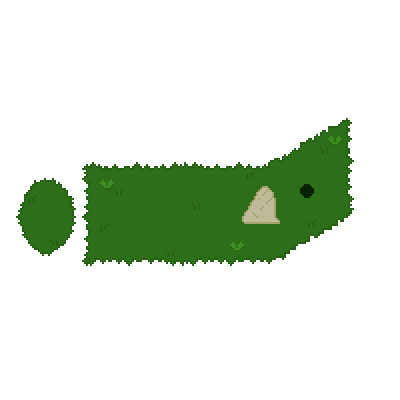
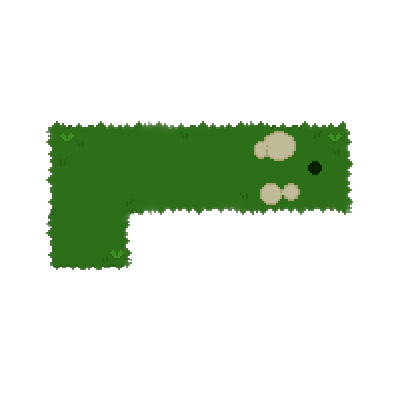
Next Hole faded MERGE

Changed region(s): [[0.03, 0.3, 0.9, 0.69]]

diff --git a/src/Hole/HolePage.tsx b/src/Hole/HolePage.tsx
@@ -1,3 +1,4 @@
+import { isDisabled } from '@testing-library/user-event/dist/utils'
 import React, { FC, useState } from 'react'
 import { useLocation } from 'react-router-dom'
 import LinkButton from '../LinkButton'
@@ -80,48 +81,54 @@ const HolePage:FC<IHolePageProps> = (props) => {
                         </tbody>
                     </table>
                 </div>
-                {getNextHoleButton()}
+                {getButtons()}
             </div>
         </div>
     ) 
 
-    function getStyle() {
-        //run to see all 0 scores
-        var containsZero = false
-        for(const player of playingTableArray[holeNumber]) {
-            if(player.Score === 0){
-                containsZero = true
-                break
+    function isNextHoleDisabled(){
+
+        let disabled = false;
+        playingTableArray[holeNumber].forEach((Player: IPlayer) => {
+            if(Player.Score == 0){
+                disabled = true
             }
-        }
-        // return containsZero;
-        return false; // Temp for testing
+        });
+        
+        return disabled
     }
 
-    function getNextHoleButton() {
+
+    //Generates the button templates for back and next hole w/ disabled opacity functionality
+    function generateButton(increment: number , text:String){
+
+        if(increment == -1)
+        {
+            return <button className='button' style={{fontFamily: 'ThaLeah', border: 'none'}} onClick={() => {setHoleNumber(holeNumber + increment)}}>{text}</button>
+        }
+        else{
+            return (<button className='button' style={{fontFamily: 'ThaLeah', border: 'none', opacity: (isNextHoleDisabled() ? "0.5" : 1)}} 
+                    disabled={isNextHoleDisabled()}
+                    onClick={() => {setHoleNumber(holeNumber + increment)}}>{text}</button>)
+        }
+        
+    }
+
+    //
+    function getButtons() {
             return(
                 <div  style={{display:"flex",width: '100%',justifyContent: 'space-between', flexDirection: "row-reverse"}}>
-                    {holeNumber + 1 < 9 ?
-                        <button 
-                            className='button' 
-                            style={{
-                                fontFamily: '\'ThaLeah\'',
-                                border: 'none',
-                                opacity: (getStyle() ? "0.5" : 1),
-                                width: "110px"
-                            }} 
-                            disabled={getStyle()}
-                            onClick={() => {setHoleNumber(holeNumber+1)}}
-                        >
-                            Next Hole
-                        </button>
+                    {holeNumber + 1 < 9?
+                         generateButton(1,'Next Hole')
                     :
-                    <LinkButton text='End Game...' redirect={'/EndGame'}  params={{state:{holeProps: {playingTable: playingTableArray, number: 0}, loggedIn: loggedIn}}}/>
-                    }
+                    isNextHoleDisabled() ?
+                          generateButton(1,'Next Hole')
+                    :
+                     <LinkButton  text='End Game...' redirect={'/EndGame'}  params={{state:{holeProps: {playingTable: playingTableArray, number: 0}}}}/>
+
+                }
                     {holeNumber > 0 && 
-                        <div className='button' onClick={()=>{setHoleNumber(holeNumber-1)}}>
-                            Back
-                        </div>
+                        generateButton(-1,'Back')
                     }
                 </div>
             )

diff --git a/src/Home/Home.tsx b/src/Home/Home.tsx
@@ -3,10 +3,122 @@ import "./Home.css"
 import HomeButtons from './HomeButtons'
 
 const Home:FC = () => {
+    var dummyLeaderboard: ILeaderboardObj = {
+        dateTime: '',
+        Players: []
+    }
+
+    var dummyPlayer: IPlayer = {
+        Name: ''
+    }
+
+    const [records, setRecords] = useState([]);
+    const [allPlayers, setAllPlayers] = useState([dummyPlayer]);
+    const [allLeaderboards, setAllLeaderboards] = useState([dummyLeaderboard]);
+    
+    
+    var URL ='http://'+ window.location.hostname+':5001'
+
+
+
+    useEffect(() => {
+        fetchDB()
+    }, [])
+
+    async function fetchDB() {
+        const response = await fetch(URL + `/leaderboard/`);
+ 
+        if (!response.ok) {
+        const message = `An error occurred: ${response.statusText}`;
+        window.alert(message);
+        return;
+        }
+    
+        const records = await response.json();
+        console.log(records)
+        setRecords(records);
+    }
+
+    async function addHandler() {
+        var newObj = {
+            Players: [
+                {Player_Id: "62e5e5a875351dce721836af", 
+                Score: "99"},
+                {Player_Id: "62e5022fa9bddf5b05fed3ea",
+                Score: "69"}
+            ]
+        }
+        await fetch(URL + "leaderboard/add", {
+            method: "POST",
+            headers: {
+                "Content-Type": "application/json",
+            },
+            body: JSON.stringify(newObj),
+            })
+            .catch(error => {
+            window.alert(error);
+            return;
+        });
+    }
+
+    async function getAllLeaderboards() {
+        const response = await fetch(URL + `/leaderboards/`);
+ 
+        if (!response.ok) {
+        const message = `An error occurred: ${response.statusText}`;
+        window.alert(message);
+        return;
+        }
+    
+        const leaderboards: ILeaderboardObj[] = await response.json();
+        console.log(leaderboards)
+        setAllLeaderboards(leaderboards);
+        console.log("allLeaderboards: ", allLeaderboards);
+    }
+
+    function returnAllLeaderboards(){
+        return allLeaderboards.map((leaderboard, index) => {
+                return (<div key={index}>
+                    {leaderboard.dateTime}
+                </div>);
+        });
+    }
+
+    async function addNewPlayer() {
+        var newObj = {
+            Name: "newNAME"
+        }
+        await fetch(URL + "/players/add", {
+            method: "POST",
+            headers: {
+                "Content-Type": "application/json",
+            },
+            body: JSON.stringify(newObj),
+            })
+            .catch(error => {
+            window.alert(error);
+            return;
+        });
+    }
+
+    async function getAllPlayers() {
+    
+        const response = await fetch(URL + `/players/`);
+ 
+        if (!response.ok) {
+        const message = `An error occurred: ${response.statusText}`;
+        window.alert(message);
+        return;
+        }
+    
+        const players: IPlayer[] = await response.json();
+        setAllPlayers(players);
+    }
+
     return (
         <div className='home-container' >
             <div className='home'>
-               <div><img className='logo' src={require('../Images/logo.png') } alt='logo'/></div> 
+               {/* <div><img className='logo' src={require('../Images/logo.png') }/></div>  */}
                 HYPNOS MOORE RIVER GOLF
                 <HomeButtons />
             </div>

diff --git a/src/Dashboard/Dash.tsx b/src/Dashboard/Dash.tsx
@@ -12,6 +12,8 @@ const Dash: FC = () => {
     const [showHistoryModal, setShowHistoryModal] = useState(false);
     const [latestGameSimple, setLatestGameSimple] = useState<ILatestLeaderboardSimpleObj>()
     const [latestGameDate, setLatestGameDate] = useState('')
+
+    var URL ='http://'+ window.location.hostname+':5001'
     
     useEffect(() => {
         getLatestLeaderboard();
@@ -27,7 +29,7 @@ const Dash: FC = () => {
     })()
 
     async function getLatestLeaderboard() {
-        const response = await fetch(`http://localhost:5001/leaderboard/`);
+        const response = await fetch(URL + `/leaderboard/`);
  
         if (!response.ok) {
             const message = `An error occurred: ${response.statusText}`;
@@ -53,7 +55,9 @@ const Dash: FC = () => {
         setLatestGameSimple(filteredLeaderboard)
     }
 
+    console.log(window.location.href)
     return (
+        
         <div className='page'>
 
             <div style={{position:"absolute"}}>
@@ -86,7 +90,7 @@ const Dash: FC = () => {
 
             {/* Buttons */}
             <div style={{display: "flex",justifyContent: "center"}}>
-                <Button text="History" onClick={showHistoryModalHandler} />
+                <Button text="History" onClick={showHistoryModalHandler}  />
                 { loggedIn &&
                     <LinkButton text="Play" redirect={"../PlayGame"} params={{state:{loggedIn: loggedIn}}}/>
                 }

diff --git a/src/PlayGame/NewPlayerForm.tsx b/src/PlayGame/NewPlayerForm.tsx
@@ -11,6 +11,7 @@ const NewPlayerForm:FC<INewPlayerFormProps> = (props) => {
     const [emptyName, setEmptyName] = useState(false);
     const [authError, setAuthError] = useState('');
     const [addedPlayersList, setAddedPlayersList] = useState([''])
+    var URL ='http://'+ window.location.hostname+':5001'
 
     async function onSubmit(){
         setTempPlayerName(playerName)
@@ -47,7 +48,7 @@ const NewPlayerForm:FC<INewPlayerFormProps> = (props) => {
         if(!isMatch && !isEmpty && !exists){
             setNameExists(false)
             //Auth
-            const authed = await fetch(`http://localhost:5001/isUserAuth/`, {
+            const authed = await fetch(URL + `/isUserAuth/`, {
                 method: "GET",
                 headers: {
                     "x-access-token": localStorage.getItem("token") || ''
@@ -61,7 +62,7 @@ const NewPlayerForm:FC<INewPlayerFormProps> = (props) => {
 
             if(authed.authed) {
                 //Push player to database
-                await fetch("http://localhost:5001/players/add", {
+                await fetch(URL + "/players/add", {
                     method: "POST",
                     headers: {
                         "Content-Type": "application/json",

diff --git a/src/Home/UserPass.tsx b/src/Home/UserPass.tsx
@@ -1,3 +1,4 @@
+import { url } from 'inspector'
 import React, { FC, useState } from 'react'
 import { useNavigate } from 'react-router-dom'
 
@@ -6,6 +7,8 @@ const UserPass:FC<IUserPassProps> = () => {
     const [password, setPassword] = useState("")
     const [loginMessage, setLoginMessage] = useState("")
     const navigate = useNavigate();
+
+    var URL ='http://'+ window.location.hostname+':5001'
 
     const onUsernameChangeHandler = (event :any)=> {
         setUsername(event.target.value);
@@ -16,7 +19,7 @@ const UserPass:FC<IUserPassProps> = () => {
     }
 
     async function onClickHandler() {
-        const response = await fetch(`http://localhost:5001/login`, {
+        const response = await fetch(URL + `/login`, {
         method: "POST",
         headers: {
             "Content-Type": "application/json",
@@ -35,7 +38,7 @@ const UserPass:FC<IUserPassProps> = () => {
     }
 
     async function addNewuser() {
-        const response = await fetch(`http://localhost:5001/addUser`, {
+        const response = await fetch(URL + `/addUser`, {
         method: "POST",
         headers: {
             "Content-Type": "application/json",

diff --git a/src/Dashboard/HistoryModal.tsx b/src/Dashboard/HistoryModal.tsx
@@ -8,13 +8,14 @@ const LoginModal: FC<IHistoryProps> = (props) => {
     const [allLeaderboards, setAllLeaderboards] = useState<ILeaderboardObj[]>()
     const [selectedLeaderboard, setSelectedLeaderboard] = useState<ILeaderboardObj>()
     const [gameSelected, setGameSelected] = useState(-1)
-
+    var URL ='http://'+ window.location.hostname+':5001'
+    
     useEffect(() => {
         getAllLeaderboards()
     }, [])
 
     async function getAllLeaderboards() {
-        const response = await fetch(`http://localhost:5001/leaderboards/`);
+        const response = await fetch(URL + `/leaderboards/`);
  
         if (!response.ok) {
             const message = `An error occurred: ${response.statusText}`;

diff --git a/src/PlayGame/PlayGame.tsx b/src/PlayGame/PlayGame.tsx
@@ -20,7 +20,7 @@ const PlayGame: FC = () => {
     const [allPlayers, setAllPlayers]= useState<IPlayer[]>()
     const [playerTable, setPlayerTable]= useState<IPlayer[]>()
     const [playingTable, setPlayingTable]= useState<IPlayer[]>()
-
+    var URL ='http://'+ window.location.hostname+':5001'
     useEffect(() => {
         getAllPlayers()
     }, [])
@@ -97,7 +97,7 @@ const PlayGame: FC = () => {
     )
 
     async function getAllPlayers() {
-        const response = await fetch(`http://localhost:5001/players/`);
+        const response = await fetch(URL + `/players/`);
  
         if (!response.ok) {
             const message = `An error occurred: ${response.statusText}`;

diff --git a/src/Hole/ScoreRows.tsx b/src/Hole/ScoreRows.tsx
@@ -28,7 +28,7 @@ const ScoreRows:FC<IScoreRowsProps> = (props) => {
                         <td >
     
                             <div style={{ display: 'flex', alignItems: 'center' }}>
-                                <div onClick={() => {props.decrementScore(Player.Name, Player.Score)}} >-</div>
+                                <div onClick={() => {props.decrementScore(Player.Name, Player.Score)}}  >-</div>
                                 <div style={{ padding: '0 5px 0 5px' }}>{Player.Score}</div>
                                 <div onClick={() => {props.incrementScore(Player.Name)}}>+</div>
                             </div>

diff --git a/src/Hole/EndGame/StaticRows.tsx b/src/Hole/EndGame/StaticRows.tsx
@@ -22,8 +22,9 @@ const StaticRows:FC<IStaticRow> = (props) => {
                     </tr>
                 )
             })
-            : 
-            ''
+
+            
+            
         )
     }
     
